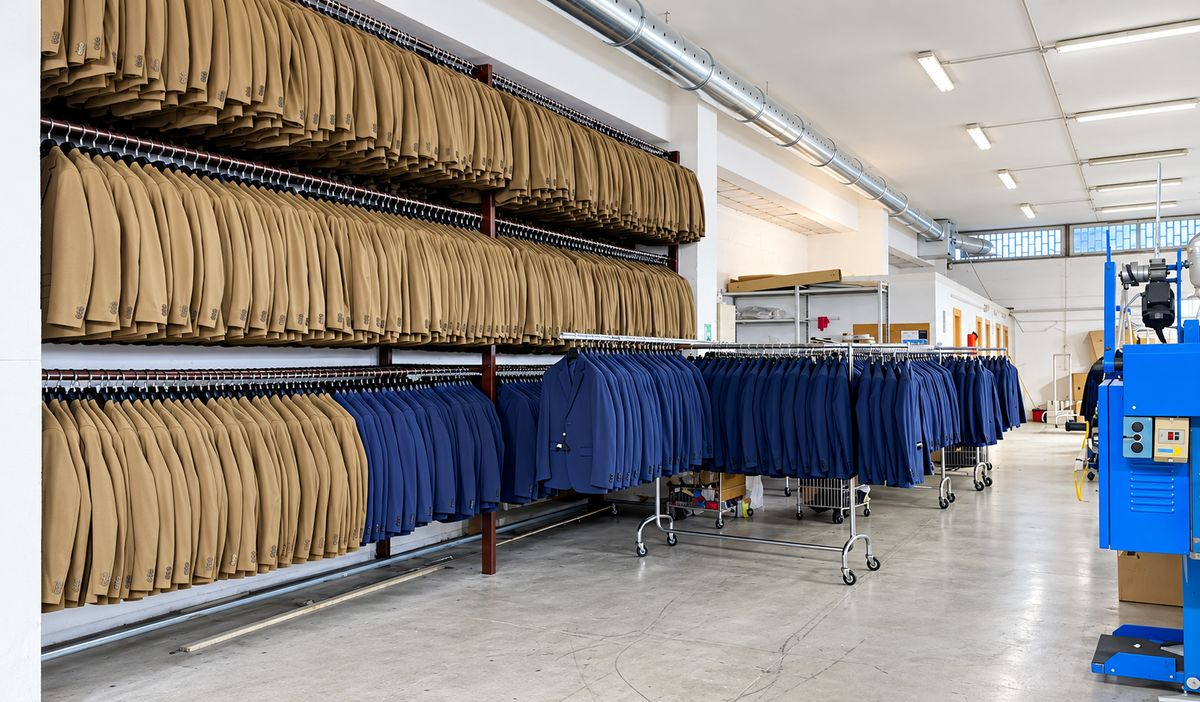
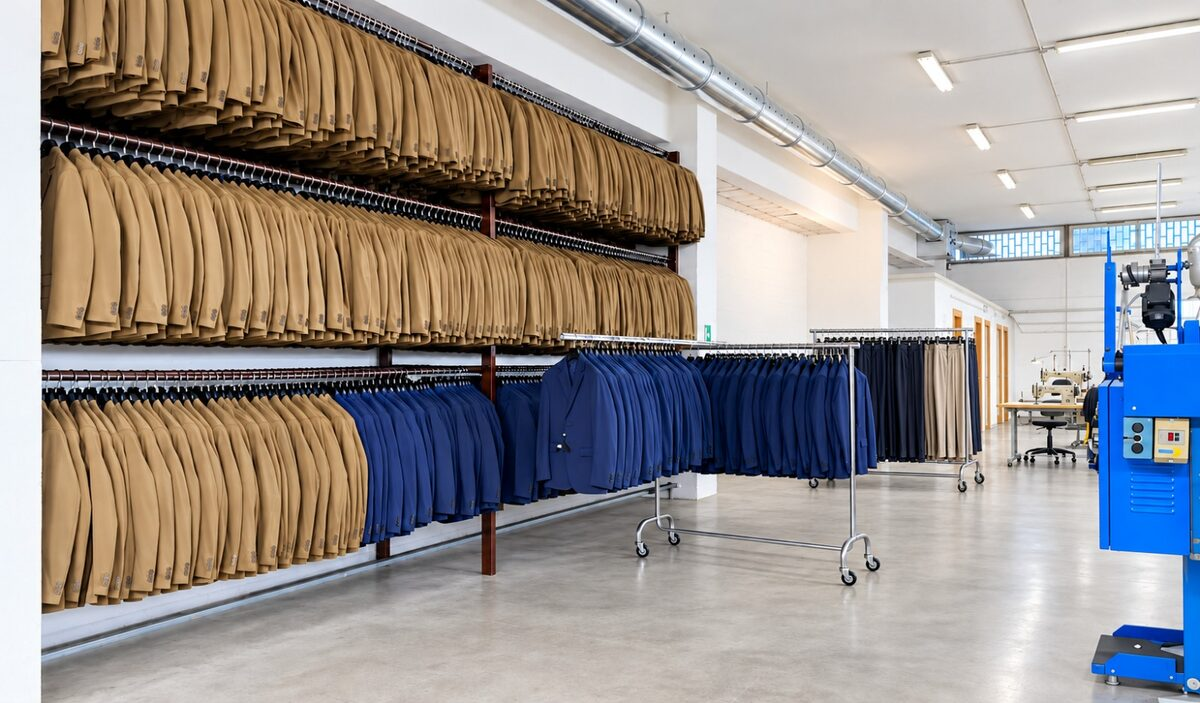
Use the provided factory photo

diff --git a/dist/index.html b/dist/index.html
@@ -47,7 +47,7 @@
         <div class="hero-actions"><a class="button" href="#collezioni">Scopri le produzioni</a><a class="button outline" href="#richieste">Richiedi informazioni</a></div>
       </div>
       <div class="hero-visual">
-        <img src="/assets/fabbrica-ra-italia.png" alt="Giacche eleganti appese nella fabbrica R.A. ITALIA">
+        <img src="/assets/fabbrica-ra-italia.jpg" alt="Giacche eleganti appese nella fabbrica R.A. ITALIA">
         <span class="image-note">R.A. ITALIA · Abbigliamento elegante</span>
       </div>
     </section>
